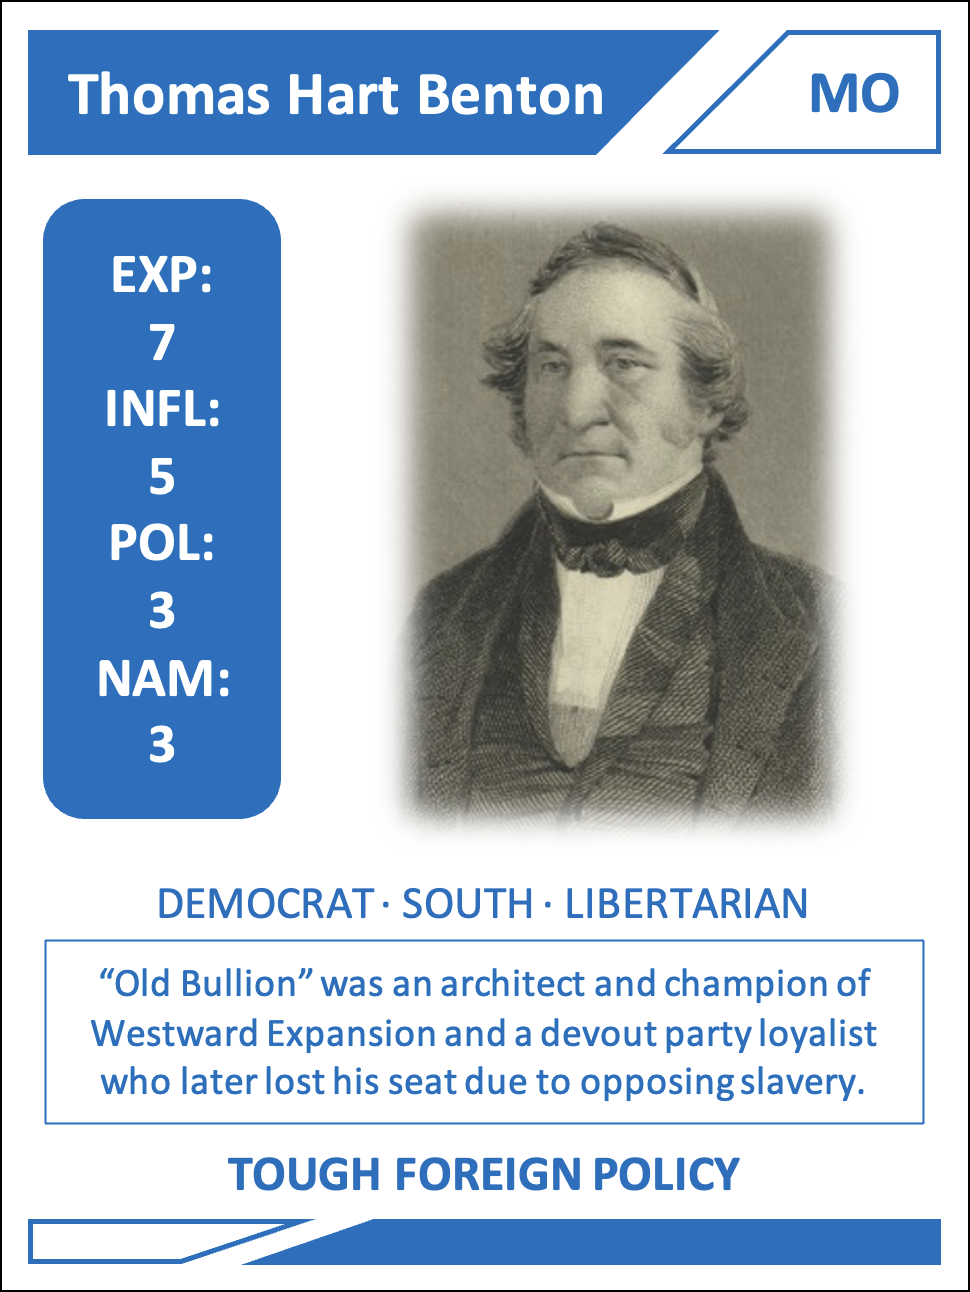
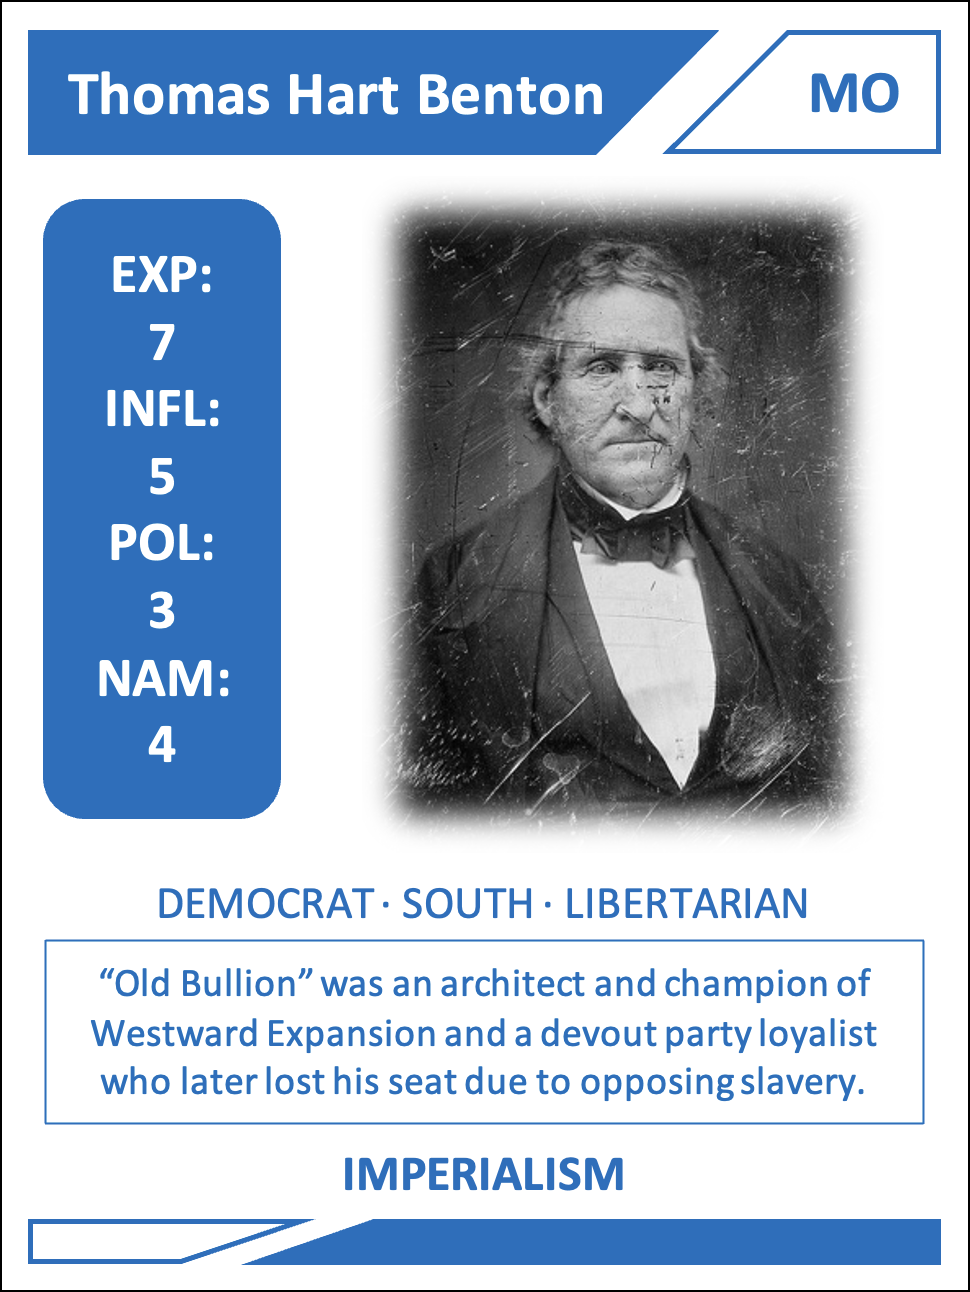
8/24 Kevin Mac

Changed region(s): [[0.3711, 0.1548, 0.8969, 0.6502], [0.2165, 0.8978, 0.7732, 0.9288], [0.1546, 0.5573, 0.1856, 0.5882]]

diff --git a/Election Game/src/main/java/org/cis120/electiongame/CardData.java b/Election Game/src/main/java/org/cis120/electiongame/CardData.java
@@ -339,7 +339,7 @@ public class CardData {
             new String[]{"President", "Jacksonian Era"}
     );
     static President jamesKPolk = new President(
-            "James K. Polk", "South", 6, 7, 4, 2, "Populist", "Imperialism",
+            "James K. Polk", "South", 6, 8, 5, 2, "Populist", "Imperialism",
             new String[]{"President", "Jacksonian Era"}
     );
     static President zacharyTaylor = new President(
@@ -1960,7 +1960,7 @@ public class CardData {
             new String[]{"Founding Era"}
     );
     static President johnArmstrongJr = new President(
-            "John Armstrong Jr.", "Northeast", 3, 1, 1, 1, "Libertarian", "Imperialism",
+            "John Armstrong Jr.", "Northeast", 3, 1, 1, 1, "Libertarian", "Isolationism",
             new String[]{"Founding Era"}
     );
     static President williamLowndes = new President(
@@ -2200,7 +2200,7 @@ public class CardData {
             new String[]{"Jacksonian Era"}
     );
     static President thomasHartBenton = new President(
-            "Thomas Hart Benton", "South", 7, 5, 3, 3, "Libertarian", "Imperialism",
+            "Thomas Hart Benton", "South", 7, 5, 3, 4, "Libertarian", "Imperialism",
             new String[]{"Jacksonian Era"}
     );
     static President georgeWolf = new President(
